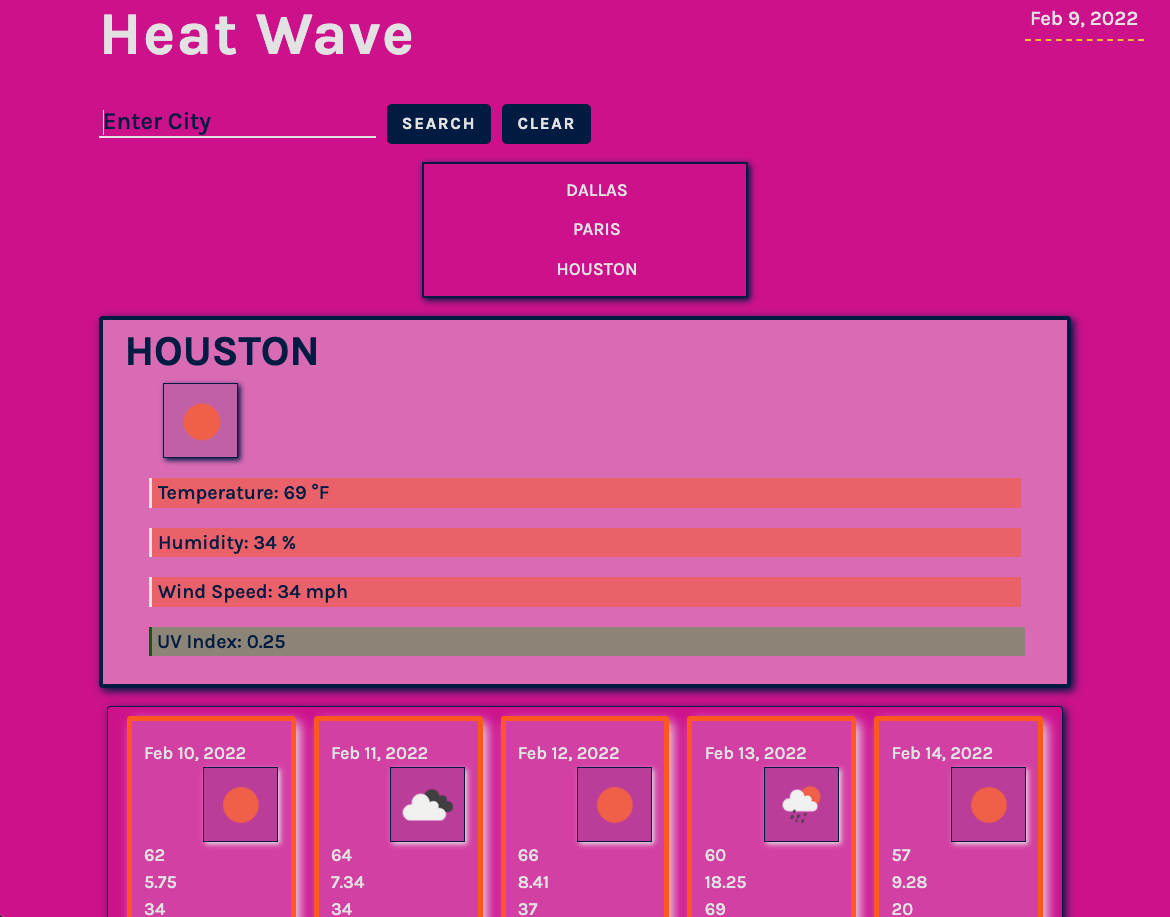
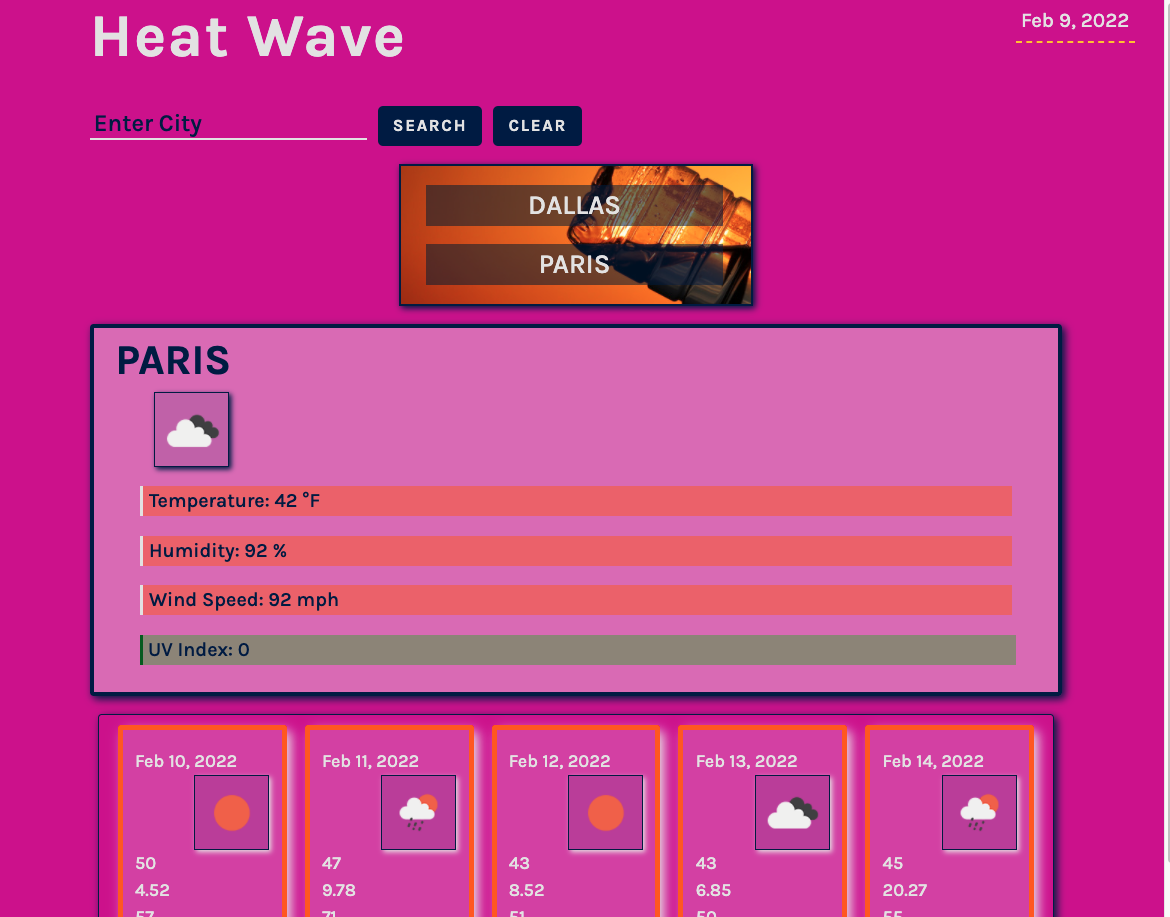
added readme images

Changed region(s): [[0.0615, 0.0916, 0.9231, 1.0], [0.8615, 0.0, 1.0, 1.0], [0.0615, 0.0, 0.3692, 0.0611]]

diff --git a/assets/polish.css b/assets/polish.css
@@ -114,14 +114,19 @@ ul {
     border: 3px solid #001a4d;
     width: max-content;
     box-shadow: 3px 3px 9px var(--navy) ;
+    background-image: url(./images/drinkingWater.jpeg);
+    /* text-align: center; */
+
 }
 
 li {
     text-align: center;
+    font-size: 1.5em;
     list-style: none;
     margin: 0.7em auto;
-    width: 25vw;
+    width: 25vw;margin-right: 1em;
     color: var(--lightText);
+    background-color: rgba(0, 26, 77, 0.5);
 }
 
 li:hover {

diff --git a/README.md b/README.md
@@ -55,4 +55,6 @@ THEN I am again presented with current and future conditions for that city
 
 ![Image 1](assets/images/heatwaveSS4.png)
 
+![Image 1](assets/images/heatwaveSS5.png)
+
 ---
